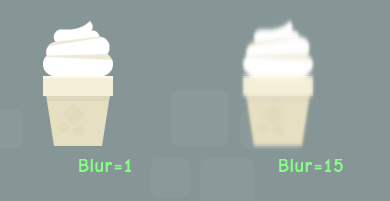
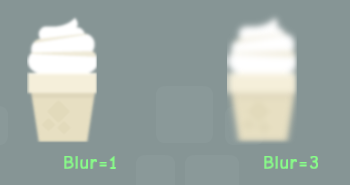
Blurring filter has changed, update example and screenshot

Changed region(s): [[0.6, 0.0811, 0.9143, 0.9189], [0.0571, 0.0811, 0.3429, 0.9189]]

diff --git a/examples/filters/filters.js b/examples/filters/filters.js
@@ -41,10 +41,11 @@ var CupcakeComponent = React.createClass({
   render : function () {
     var creamimagename = this.spritemapping[this.props.topping];
     var xposition = this.props.xposition;
+    var imageanchor = new PIXI.Point(0.5,0.5);
     return DisplayObjectContainer(
       {x:xposition, y:100},
-      Sprite({image:creamimagename, y:-35, anchor: new PIXI.Point(0.5,0.5), key:'topping'}, null),
-      Sprite({image:assetpath('cupCake.png'), y:35, anchor: new PIXI.Point(0.5,0.5), key:'cake'}, null)
+      Sprite({image:creamimagename, y:-35, anchor: imageanchor, key:'topping'}, null),
+      Sprite({image:assetpath('cupCake.png'), y:35, anchor: imageanchor, key:'cake'}, null)
     );
   }
 });
@@ -74,6 +75,7 @@ var BlurredCupcakeComponent = React.createClass({
   render : function() {
     var blurfilter = this.state.cupcakefilter;
     blurfilter.blur = this.props.bluramount;
+    blurfilter.padding = 1; // too high and the right starts to crop...
     var blurmessage = 'Blur=' + this.props.bluramount.toString();
     return DisplayObjectContainer(
       {},
@@ -104,7 +106,7 @@ var ExampleStage = React.createClass({
       {width:this.props.width, height:this.props.height},
       TilingSprite({image:assetpath('bg_castle.png'), width:this.props.width, height:this.props.height, key:1}, null),
       BlurredCupcakeFactory({topping:this.props.topping, xposition:xpos1, bluramount: 1, ref:'cupcake1', key:2}),
-      BlurredCupcakeFactory({topping:this.props.topping, xposition:xpos2, bluramount: 15, ref:'cupcake2', key:3})
+      BlurredCupcakeFactory({topping:this.props.topping, xposition:xpos2, bluramount: 3, ref:'cupcake2', key:3})
     );
   }
 });
